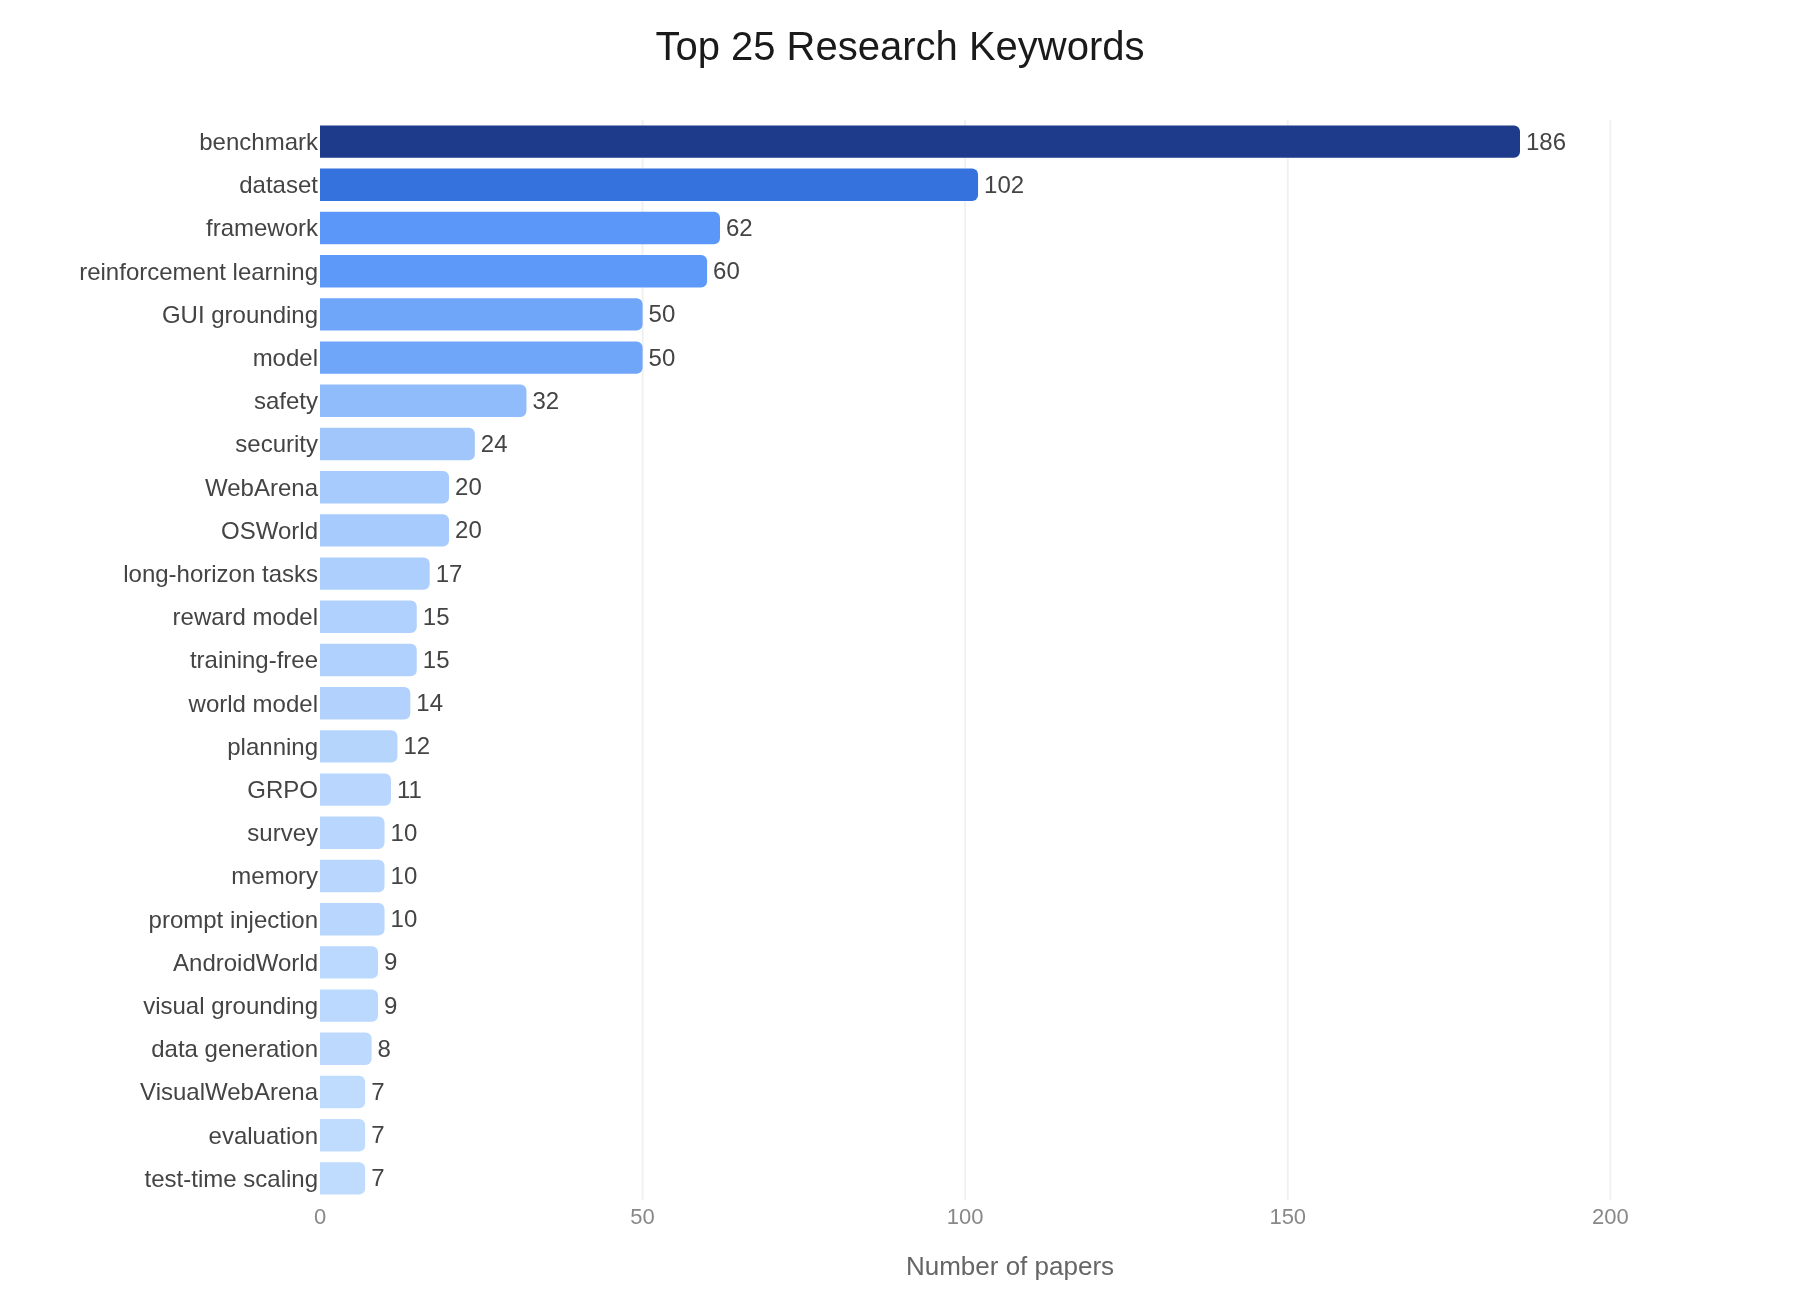
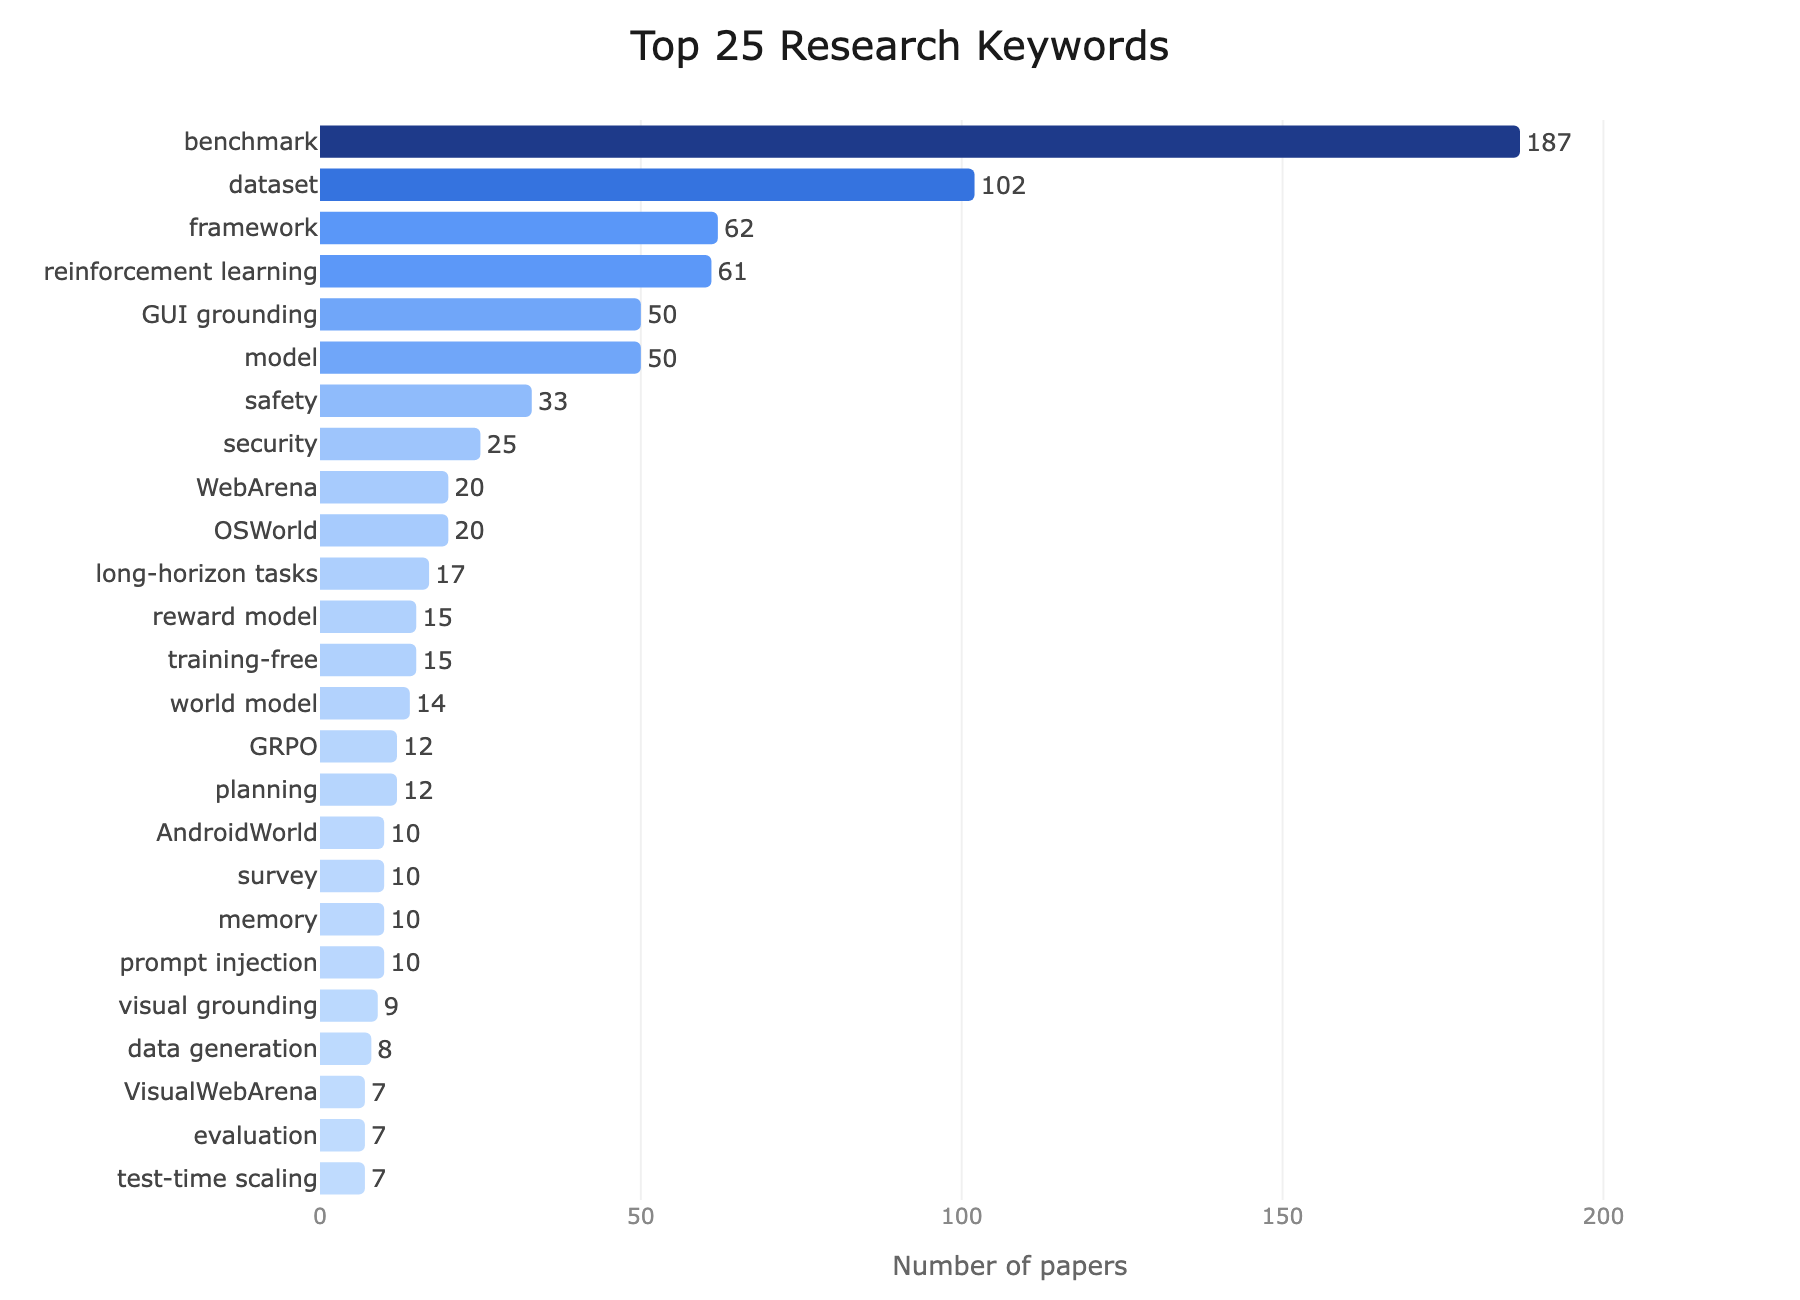
Add AnTrap: Android GUI agent robustness benchmark
Adds "Are Android GUI Agents Robust Against Runtime Anomalies? AnTrap:
Evaluating Agents in Dynamic Adversarial Environments" (arXiv:2608.24099),
requested in #133. AnTrap injects controllable runtime anomalies into
Android GUI-agent trajectories across four categories and ten
subcategories, and evaluates 16 leading GUI agents against them.

Title, authors, institutions, and the arXiv v1 date were verified
against the arXiv abstract/HTML pages and the paper's GitHub repository
(github.com/gguogan/AnTrap). The issue requested "EMNLP 2026" as the
publisher, but neither the EMNLP 2026 accepted Findings list
(2026.emnlp.org/program/find_papers) nor the accepted main-conference
list (2026.emnlp.org/program/main_papers) includes this paper, so the
entry is recorded as "arXiv" pending confirmed acceptance.

Closes #133

Claude-Session: https://claude.ai/code/session_01GCb5FD7H9X2SjiiVnoMmDm

diff --git a/README.md b/README.md
@@ -1,6 +1,6 @@
 # Awesome GUI Agent Paper List
 
-A curated list of **590** research papers on GUI agents — models, frameworks, benchmarks, datasets, and more — spanning topics like GUI grounding, planning, memory, safety, and reinforcement learning.
+A curated list of **591** research papers on GUI agents — models, frameworks, benchmarks, datasets, and more — spanning topics like GUI grounding, planning, memory, safety, and reinforcement learning.
 
 ## 🌐 Read this list on the web
 
@@ -24,10 +24,10 @@ The structured store [`papers.yaml`](papers.yaml) (and [`adjacent.yaml`](adjacen
 ![Top 25 research keywords](readme_template/statistics/keyword_bar_chart.png)
 
 ## Browse by Environment
-🌐 [Web (236)](https://osu-nlp-group.github.io/GUI-Agents-Paper-List/papers/?env=Web) · 🖥 [Desktop (138)](https://osu-nlp-group.github.io/GUI-Agents-Paper-List/papers/?env=Desktop) · 📱 [Mobile (179)](https://osu-nlp-group.github.io/GUI-Agents-Paper-List/papers/?env=Mobile) · 🖼 [General GUI (125)](https://osu-nlp-group.github.io/GUI-Agents-Paper-List/papers/?env=General+GUI)
+🌐 [Web (236)](https://osu-nlp-group.github.io/GUI-Agents-Paper-List/papers/?env=Web) · 🖥 [Desktop (138)](https://osu-nlp-group.github.io/GUI-Agents-Paper-List/papers/?env=Desktop) · 📱 [Mobile (180)](https://osu-nlp-group.github.io/GUI-Agents-Paper-List/papers/?env=Mobile) · 🖼 [General GUI (125)](https://osu-nlp-group.github.io/GUI-Agents-Paper-List/papers/?env=General+GUI)
 
 ## Browse by Keyword
-[benchmark (186)](https://osu-nlp-group.github.io/GUI-Agents-Paper-List/papers/?key=benchmark) · [dataset (102)](https://osu-nlp-group.github.io/GUI-Agents-Paper-List/papers/?key=dataset) · [framework (62)](https://osu-nlp-group.github.io/GUI-Agents-Paper-List/papers/?key=framework) · [reinforcement learning (60)](https://osu-nlp-group.github.io/GUI-Agents-Paper-List/papers/?key=reinforcement+learning) · [model (50)](https://osu-nlp-group.github.io/GUI-Agents-Paper-List/papers/?key=model)<br>[GUI grounding (50)](https://osu-nlp-group.github.io/GUI-Agents-Paper-List/papers/?key=GUI+grounding) · [safety (32)](https://osu-nlp-group.github.io/GUI-Agents-Paper-List/papers/?key=safety) · [security (24)](https://osu-nlp-group.github.io/GUI-Agents-Paper-List/papers/?key=security) · [WebArena (20)](https://osu-nlp-group.github.io/GUI-Agents-Paper-List/papers/?key=WebArena) · [OSWorld (20)](https://osu-nlp-group.github.io/GUI-Agents-Paper-List/papers/?key=OSWorld)<br>[long-horizon tasks (17)](https://osu-nlp-group.github.io/GUI-Agents-Paper-List/papers/?key=long-horizon+tasks) · [reward model (15)](https://osu-nlp-group.github.io/GUI-Agents-Paper-List/papers/?key=reward+model) · [training-free (15)](https://osu-nlp-group.github.io/GUI-Agents-Paper-List/papers/?key=training-free) · [world model (14)](https://osu-nlp-group.github.io/GUI-Agents-Paper-List/papers/?key=world+model) · [planning (12)](https://osu-nlp-group.github.io/GUI-Agents-Paper-List/papers/?key=planning)<br>[GRPO (11)](https://osu-nlp-group.github.io/GUI-Agents-Paper-List/papers/?key=GRPO) · [survey (10)](https://osu-nlp-group.github.io/GUI-Agents-Paper-List/papers/?key=survey) · [memory (10)](https://osu-nlp-group.github.io/GUI-Agents-Paper-List/papers/?key=memory) · [prompt injection (10)](https://osu-nlp-group.github.io/GUI-Agents-Paper-List/papers/?key=prompt+injection) · [AndroidWorld (9)](https://osu-nlp-group.github.io/GUI-Agents-Paper-List/papers/?key=AndroidWorld)
+[benchmark (187)](https://osu-nlp-group.github.io/GUI-Agents-Paper-List/papers/?key=benchmark) · [dataset (102)](https://osu-nlp-group.github.io/GUI-Agents-Paper-List/papers/?key=dataset) · [framework (62)](https://osu-nlp-group.github.io/GUI-Agents-Paper-List/papers/?key=framework) · [reinforcement learning (61)](https://osu-nlp-group.github.io/GUI-Agents-Paper-List/papers/?key=reinforcement+learning) · [model (50)](https://osu-nlp-group.github.io/GUI-Agents-Paper-List/papers/?key=model)<br>[GUI grounding (50)](https://osu-nlp-group.github.io/GUI-Agents-Paper-List/papers/?key=GUI+grounding) · [safety (33)](https://osu-nlp-group.github.io/GUI-Agents-Paper-List/papers/?key=safety) · [security (25)](https://osu-nlp-group.github.io/GUI-Agents-Paper-List/papers/?key=security) · [WebArena (20)](https://osu-nlp-group.github.io/GUI-Agents-Paper-List/papers/?key=WebArena) · [OSWorld (20)](https://osu-nlp-group.github.io/GUI-Agents-Paper-List/papers/?key=OSWorld)<br>[long-horizon tasks (17)](https://osu-nlp-group.github.io/GUI-Agents-Paper-List/papers/?key=long-horizon+tasks) · [reward model (15)](https://osu-nlp-group.github.io/GUI-Agents-Paper-List/papers/?key=reward+model) · [training-free (15)](https://osu-nlp-group.github.io/GUI-Agents-Paper-List/papers/?key=training-free) · [world model (14)](https://osu-nlp-group.github.io/GUI-Agents-Paper-List/papers/?key=world+model) · [GRPO (12)](https://osu-nlp-group.github.io/GUI-Agents-Paper-List/papers/?key=GRPO)<br>[planning (12)](https://osu-nlp-group.github.io/GUI-Agents-Paper-List/papers/?key=planning) · [survey (10)](https://osu-nlp-group.github.io/GUI-Agents-Paper-List/papers/?key=survey) · [AndroidWorld (10)](https://osu-nlp-group.github.io/GUI-Agents-Paper-List/papers/?key=AndroidWorld) · [memory (10)](https://osu-nlp-group.github.io/GUI-Agents-Paper-List/papers/?key=memory) · [prompt injection (10)](https://osu-nlp-group.github.io/GUI-Agents-Paper-List/papers/?key=prompt+injection)
 
 ## Browse by Author
 [Wei Liu (14)](https://osu-nlp-group.github.io/GUI-Agents-Paper-List/papers/?author=Wei+Liu) · [Graham Neubig (14)](https://osu-nlp-group.github.io/GUI-Agents-Paper-List/papers/?author=Graham+Neubig) · [Yu Su (14)](https://osu-nlp-group.github.io/GUI-Agents-Paper-List/papers/?author=Yu+Su) · [Huan Sun (14)](https://osu-nlp-group.github.io/GUI-Agents-Paper-List/papers/?author=Huan+Sun) · [Jian Luan (13)](https://osu-nlp-group.github.io/GUI-Agents-Paper-List/papers/?author=Jian+Luan)<br>[Mike Zheng Shou (12)](https://osu-nlp-group.github.io/GUI-Agents-Paper-List/papers/?author=Mike+Zheng+Shou) · [Zhuosheng Zhang (12)](https://osu-nlp-group.github.io/GUI-Agents-Paper-List/papers/?author=Zhuosheng+Zhang) · [Tao Yu (11)](https://osu-nlp-group.github.io/GUI-Agents-Paper-List/papers/?author=Tao+Yu) · [Boyuan Zheng (11)](https://osu-nlp-group.github.io/GUI-Agents-Paper-List/papers/?author=Boyuan+Zheng) · [Shuyan Zhou (11)](https://osu-nlp-group.github.io/GUI-Agents-Paper-List/papers/?author=Shuyan+Zhou)<br>[Tianbao Xie (10)](https://osu-nlp-group.github.io/GUI-Agents-Paper-List/papers/?author=Tianbao+Xie) · [Qiushi Sun (10)](https://osu-nlp-group.github.io/GUI-Agents-Paper-List/papers/?author=Qiushi+Sun) · [Yuanchun Li (10)](https://osu-nlp-group.github.io/GUI-Agents-Paper-List/papers/?author=Yuanchun+Li) · [Kevin Qinghong Lin (10)](https://osu-nlp-group.github.io/GUI-Agents-Paper-List/papers/?author=Kevin+Qinghong+Lin) · [Yuxiang Chai (10)](https://osu-nlp-group.github.io/GUI-Agents-Paper-List/papers/?author=Yuxiang+Chai)<br>[Han Xiao (10)](https://osu-nlp-group.github.io/GUI-Agents-Paper-List/papers/?author=Han+Xiao) · [Kun Shao (10)](https://osu-nlp-group.github.io/GUI-Agents-Paper-List/papers/?author=Kun+Shao) · [Jun Wang (10)](https://osu-nlp-group.github.io/GUI-Agents-Paper-List/papers/?author=Jun+Wang) · [Zichen Ding (9)](https://osu-nlp-group.github.io/GUI-Agents-Paper-List/papers/?author=Zichen+Ding) · [Zhiyong Wu (9)](https://osu-nlp-group.github.io/GUI-Agents-Paper-List/papers/?author=Zhiyong+Wu)
@@ -43,6 +43,15 @@ We welcome contributions from the community!
 ## Recent Papers (from most recent to oldest)
 
 > This README shows the 500 most recent papers. See [`papers.yaml`](papers.yaml) for the full structured source — including BibTeX, OpenReview / publisher / homepage / code / dataset links, and the `bibtex_confirmed` flag. For non-canonical adjacent papers see [`adjacent.yaml`](adjacent.yaml).
+
+- [Are Android GUI Agents Robust Against Runtime Anomalies? AnTrap: Evaluating Agents in Dynamic Adversarial Environments](https://arxiv.org/abs/2608.24099)
+    - Guo Gan, Yilun Zhao, Cong Chen, Jinbiao Wei, Tingyu Song, Zheyuan Yang, Lin Fu, Hong Zhou
+    - 🏛 Institutions: Zhejiang University, Yale University, University of Chinese Academy of Sciences, Tongji University
+    - 📅 Date: August 25, 2026
+    - 📑 Publisher: arXiv
+    - 💻 Env: [Mobile]
+    - 🔑 Key: [AnTrap], [benchmark], [reinforcement learning], [safety], [security], [GRPO], [AndroidWorld]
+    - 📖 TLDR: AnTrap is an AndroidWorld-based benchmark that injects controllable runtime anomalies, organized into four categories with ten subcategories, into Android GUI-agent trajectories. Testing 16 leading GUI agents reveals substantial robustness degradation under these anomalies, and adversarial RL training can address many single-step traps but struggles with deep contextual failures such as state deadlock.
 
 - [CoAdapt-GUI: Joint Workflow Context and Policy Adaptation for Unseen GUI Applications](https://arxiv.org/abs/2608.11588)
     - Linqiang Guo, Li Gu, Zihuan Jiang, Zhixiang Chi, Siobhan Reid, Ziqiang Wang, Yuanhao Yu, Wei Liu, Yang Wang, Tse-Hsun (Peter) Chen
@@ -4534,12 +4543,3 @@ We welcome contributions from the community!
     - 💻 Env: [Mobile]
     - 🔑 Key: [framework], [tool formulation], [multi-agent collaboration], [double-layer planning], [Expert-Eval], [MobileExperts]
     - 📖 TLDR: MobileExperts is a mobile multi-agent framework that forms tool-enabled expert teams through device-specific exploration and then coordinates them with dual-layer planning. The paper also introduces the Expert-Eval benchmark and reports better performance across task difficulty levels with about 22% lower reasoning cost.
-
-- [AMEX: Android Multi-annotation Expo Dataset for Mobile GUI Agents](https://aclanthology.org/2025.findings-acl.110/)
-    - Yuxiang Chai, Siyuan Huang, Yazhe Niu, Han Xiao, Liang Liu, Guozhi Wang, Dingyu Zhang, Shuai Ren, Hongsheng Li
-    - 🏛 Institutions: MMLab @ CUHK, SJTU, vivo AI Lab
-    - 📅 Date: July 03, 2024
-    - 📑 Publisher: Findings of ACL 2025
-    - 💻 Env: [Mobile]
-    - 🔑 Key: [dataset], [mobile GUI control], [multi-level annotations], [element grounding], [GUI-action chains], [AMEX]
-    - 📖 TLDR: AMEX is a mobile GUI-control dataset with over 104K high-resolution screenshots annotated at three levels: interactive element grounding, screen and element functionality descriptions, and instruction-action chains. The paper positions it as a supplementary training resource for generalist mobile agents and shows gains after fine-tuning SPHINX Agent on the collected annotations.
